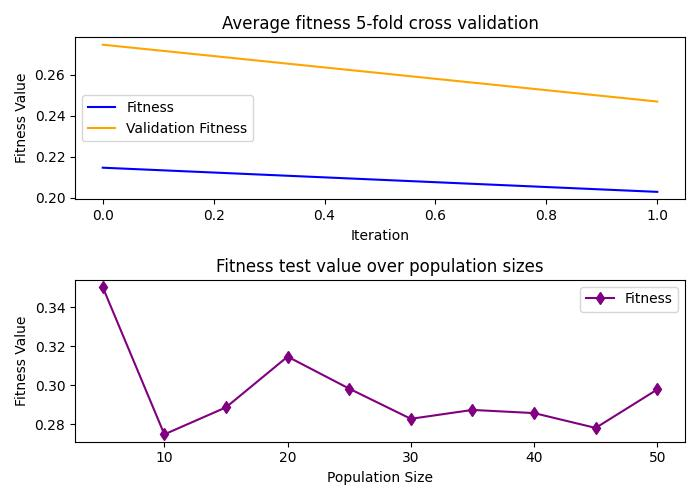
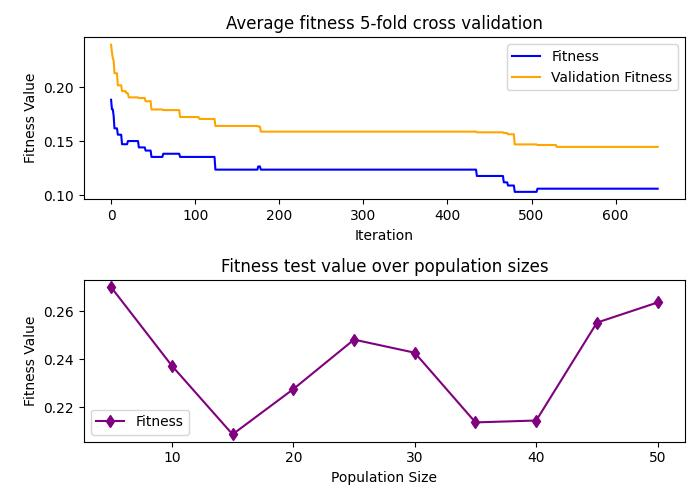
Added notifications and minor changes

diff --git a/main.py b/main.py
@@ -127,7 +127,7 @@ def k_fold_cross_validation(dataset, k=5, parameters=None, target_function_param
         test_fitness.append(fitness(**target_function_parameters)['ValFitness'])
 
         fold_index += 1
-        print('\n##### Finished {} fold #####\n'.format(fold_index))
+        print('\n##### Finished fold {} #####\n'.format(fold_index))
 
     # Transpose fitness values to have each list represent values for a specific index
     transposed_fitness_val = np.array([[item['ValFitness'] for item in sublist] for sublist in fitness_each_fold.values()]).T
@@ -146,10 +146,8 @@ def population_test(dataset, k=5, parameters=None, target_function_parameters=No
 
     total_fitness_test = []
 
-    for size in range(initial_population_size, max_population_size + 5, population_size_step):
-        parameters['grasshoppers'] = size
-        test_fitness, _ = k_fold_cross_validation(dataset, k, parameters, target_function_parameters)
-        total_fitness_test.append(test_fitness)
+    total_fitness_test = [test_fitness for test_fitness, _ in (k_fold_cross_validation(dataset, k, {'grasshoppers': size, **parameters}, target_function_parameters) 
+                                                               for size in range(initial_population_size, max_population_size + 5, population_size_step))]
 
     total_fitness_array = np.array(total_fitness_test).T
     average_fitness_test = np.mean(total_fitness_array, axis=0)
@@ -185,7 +183,7 @@ def main(notify=False):
         'weights': weights,
         'data': dataset,
         'alpha': 0.5,
-        'classifier': 'knn'
+        'classifier': 'svc'
     }
 
     # Perform k-fold cross-validation
